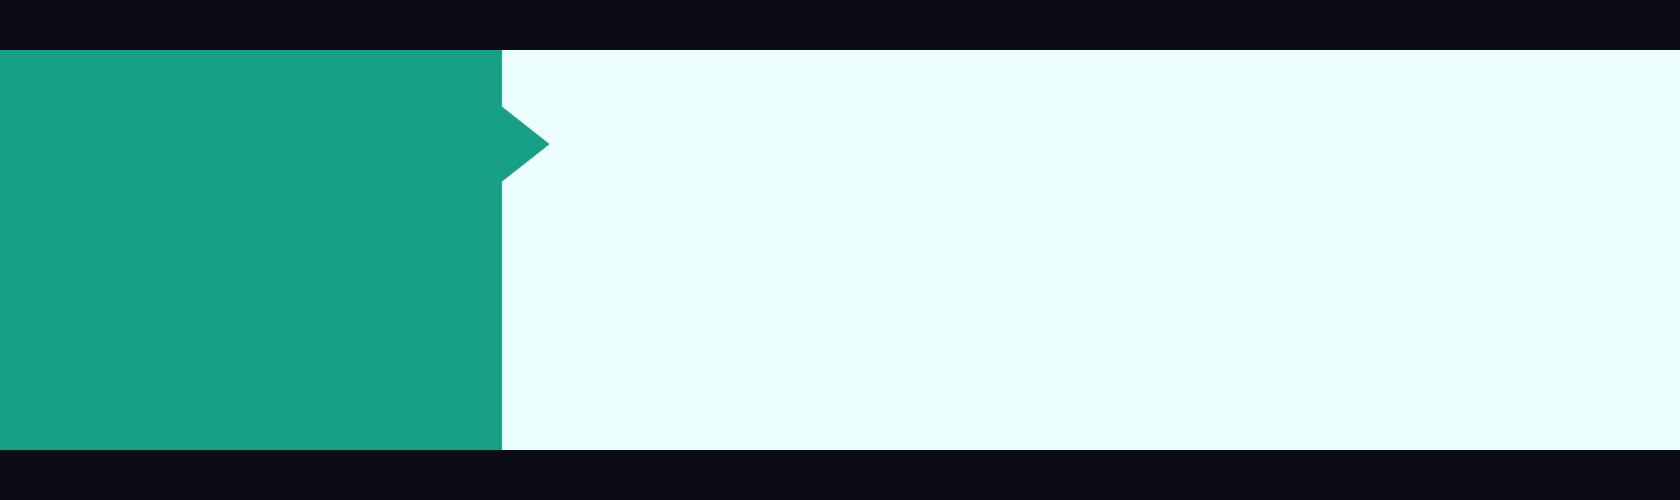
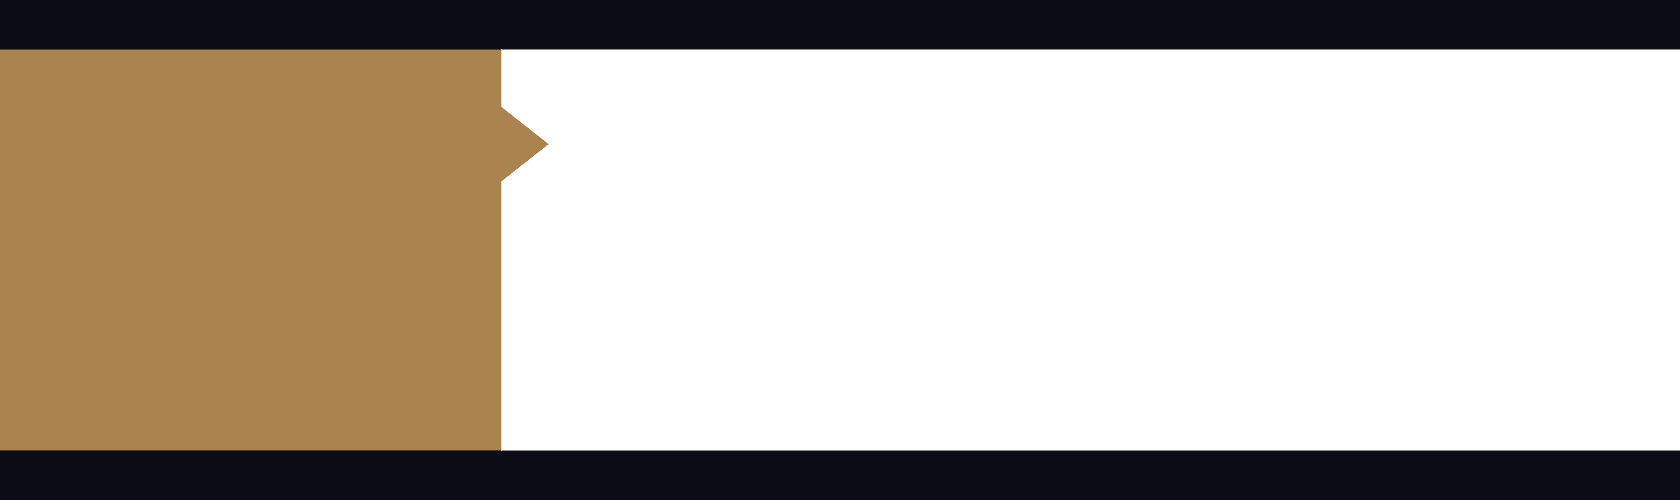
imagenes

Changed region(s): [[0.0, 0.09, 0.3405, 0.9]]

diff --git a/Agenda/src/vistas/DetalleEvento.java b/Agenda/src/vistas/DetalleEvento.java
@@ -285,7 +285,7 @@ public class DetalleEvento extends javax.swing.JDialog {
                 guardarActionPerformed(evt);
             }
         });
-        jPanel1.add(guardar, new org.netbeans.lib.awtextra.AbsoluteConstraints(180, 540, 220, 30));
+        jPanel1.add(guardar, new org.netbeans.lib.awtextra.AbsoluteConstraints(170, 530, 220, 30));
 
         jLabel7.setFont(new java.awt.Font("Century Gothic", 0, 12)); // NOI18N
         jLabel7.setForeground(new java.awt.Color(255, 255, 255));
@@ -454,13 +454,29 @@ public class DetalleEvento extends javax.swing.JDialog {
         });
         jPanel1.add(editarCategoria2, new org.netbeans.lib.awtextra.AbsoluteConstraints(430, 320, 40, 20));
 
-        eliminar.setText("Eliminar Evento");
+        eliminar.setBackground(new java.awt.Color(12, 12, 22));
+        eliminar.setFont(new java.awt.Font("Century Gothic", 0, 12)); // NOI18N
+        eliminar.setForeground(new java.awt.Color(255, 255, 255));
+        eliminar.setText("ELIMINAR ESTE EVENTO");
+        eliminar.setBorder(javax.swing.BorderFactory.createLineBorder(new java.awt.Color(255, 255, 255)));
+        eliminar.setBorderPainted(false);
+        eliminar.setContentAreaFilled(false);
+        eliminar.setCursor(new java.awt.Cursor(java.awt.Cursor.HAND_CURSOR));
+        eliminar.setFocusPainted(false);
+        eliminar.addMouseListener(new java.awt.event.MouseAdapter() {
+            public void mouseEntered(java.awt.event.MouseEvent evt) {
+                eliminarMouseEntered(evt);
+            }
+            public void mouseExited(java.awt.event.MouseEvent evt) {
+                eliminarMouseExited(evt);
+            }
+        });
         eliminar.addActionListener(new java.awt.event.ActionListener() {
             public void actionPerformed(java.awt.event.ActionEvent evt) {
                 eliminarActionPerformed(evt);
             }
         });
-        jPanel1.add(eliminar, new org.netbeans.lib.awtextra.AbsoluteConstraints(20, 580, -1, -1));
+        jPanel1.add(eliminar, new org.netbeans.lib.awtextra.AbsoluteConstraints(10, 580, 150, 30));
 
         getContentPane().add(jPanel1, new org.netbeans.lib.awtextra.AbsoluteConstraints(0, 0, 550, 620));
 
@@ -654,6 +670,14 @@ public class DetalleEvento extends javax.swing.JDialog {
         JOptionPane.showMessageDialog(null, "Evento eliminado exitosamente.");
         this.dispose();
     }//GEN-LAST:event_eliminarActionPerformed
+
+    private void eliminarMouseEntered(java.awt.event.MouseEvent evt) {//GEN-FIRST:event_eliminarMouseEntered
+        this.eliminar.setBorderPainted(true);
+    }//GEN-LAST:event_eliminarMouseEntered
+
+    private void eliminarMouseExited(java.awt.event.MouseEvent evt) {//GEN-FIRST:event_eliminarMouseExited
+        this.eliminar.setBorderPainted(false);
+    }//GEN-LAST:event_eliminarMouseExited
 
     /**
      * @param args the command line arguments

diff --git a/Agenda/src/vistas/TarjetaEvento.java b/Agenda/src/vistas/TarjetaEvento.java
@@ -80,7 +80,7 @@ public class TarjetaEvento extends javax.swing.JPanel {
         add(Mes, new org.netbeans.lib.awtextra.AbsoluteConstraints(0, 50, 120, 61));
 
         titulo.setEditable(false);
-        titulo.setBackground(new java.awt.Color(236, 255, 255));
+        titulo.setBackground(new java.awt.Color(255, 255, 255));
         titulo.setColumns(20);
         titulo.setForeground(new java.awt.Color(0, 0, 0));
         titulo.setLineWrap(true);
